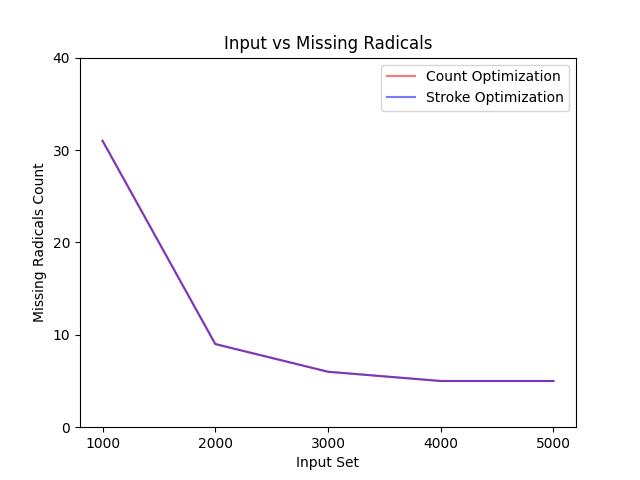
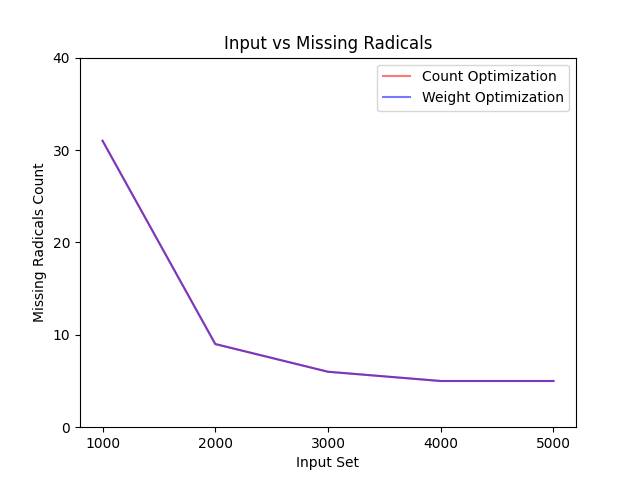
graph radicals count frequency - update some plot labeling

Changed region(s): [[0.6562, 0.125, 0.875, 0.2188]]

diff --git a/plot.py b/plot.py
@@ -3,6 +3,7 @@ import pandas as pd
 import json
 import os
 import math
+from collections import Counter
 
 data = []  # [[count],[weight]]
 
@@ -35,6 +36,8 @@ for i in range(0, len(os.listdir(output_dir))):
         data[i].append(read_data(path))
 
 # plot data
+
+# compare input
 '''
 # input vs output
 print("count opt count:  " + str(list(map(lambda x:x[0][1][0], data[0])))) # data[0] = count opt
@@ -78,10 +81,27 @@ plt.plot(list(map(lambda x:str(x[0][0][0]), data[0])), list(map(lambda x:x[0][3]
 plt.plot(list(map(lambda x:str(x[0][0][0]), data[1])), list(map(lambda x:x[0][3][0], data[1])), color="#0000ff88") # data[1] = weight opt
 plt.yticks(range(0, 50, 10))
 plt.title("Input vs Missing Radicals")
-plt.legend(["Count Optimization", "Stroke Optimization"])
+plt.legend(["Count Optimization", "Weight Optimization"])
 plt.xlabel("Input Set")
 plt.ylabel("Missing Radicals Count")
 
 plt.savefig("graphs/input_missing_radicals.png")
+plt.show()
+'''
+
+# histogram frequency count
+'''
+# radicals count frequency
+for i in range(0, len(data[0])):
+    plt.plot(list(map(list, zip(*sorted(Counter(list(map(lambda x:x[0][2], data[0][i][1]))).items()))))[0], list(map(list, zip(*sorted(Counter(list(map(lambda x:x[0][2], data[0][i][1]))).items()))))[1], color="#ff000088") # red data[0][0][i] = count opt  ik
+    plt.plot(list(map(list, zip(*sorted(Counter(list(map(lambda x:x[0][2], data[1][i][1]))).items()))))[0], list(map(list, zip(*sorted(Counter(list(map(lambda x:x[0][2], data[1][i][1]))).items()))))[1], color="#0000ff88") # blue data[1][0][i] = weight opt ik
+plt.title("Radicals Count Frequency")
+plt.legend(["Count Optimization", "Weight Optimization"])
+plt.xlabel("Radicals Count")
+plt.ylabel("Frequency")
+plt.xticks(range(1, 11, 1))
+plt.yticks(range(0, 61, 5))
+plt.savefig("graphs/radicals_count_frequency.png")
+
 plt.show()
 '''
